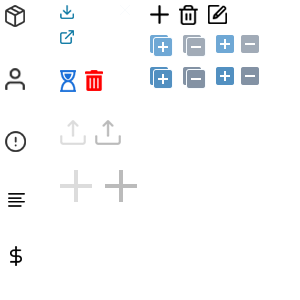
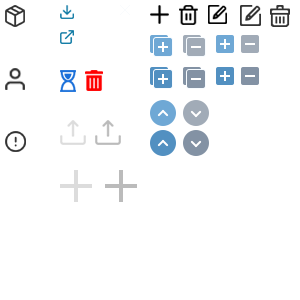
css/fonts/images 업데이트

diff --git a/src/main/resources/static/css/content.css b/src/main/resources/static/css/content.css
@@ -344,7 +344,7 @@ type2~4:#497fb8/#7b6ccc/#3ea29a
 .stateDay{display: inline-block; font-size: 15px; color:#fff; line-height: 30px; font-weight: 700; padding:0 15px; border-radius: 4px; background:#44a3bd; font-family: 'Montserrat';}/*180405 스타일 갱신 background:#2957cc*/
 
 /* search */
-.searchWrap{padding:20px; margin-bottom: 50px; text-align: center; border-radius: 2px; background-color: #fff; border-top:1px solid #11a7af;}
+.searchWrap{padding:20px; margin-bottom: 20px; text-align: center; border-radius: 2px; background-color: #fff; border-top:1px solid #11a7af;}
 .searchBox .form-group{display: inline-block; margin: 0; vertical-align:middle;}
 .searchBox .form-group-area {padding:7px 0;}
 .searchBox .fm_label{display: inline-block; vertical-align:middle; padding-right:10px;}
@@ -384,7 +384,7 @@ select, select.form-control,
 .cBox h4.c-tit .point1{font-weight:700;}/*180409 스타일 갱신*/
 .cBox .cBox-hd .pull-right{padding:25px 0;}
 .cBox .cBox-hd .dropdown{display: inline-block;}
-.cBox .dropdown-menu{min-width:65px; -webkit-box-shadow: none; box-shadow: none;}
+.cBox .dropdown-menu{min-width:50px; -webkit-box-shadow: none; box-shadow: none;}
 .cBox .dropdown-menu>li>a{padding:3px 10px;}
 .cBox .cBox-hd .btn-toggle {padding:0;}
 .cBox .cBox-hd .btn-toggle .ico{width:38px; height:37px; background-position: 0 -181px;}
@@ -1296,25 +1296,134 @@ input[name='renameSev']{position:relative;width:100%;}
 
 /*사용현황*/
 .statusBox {margin-bottom:40px;}
-.statusBox ul {display:table; width:100%;}
-.statusBox ul li {display:table-cell; width:30%; box-sizing:border-box; padding-right:30px;}
-.statusBox ul li:last-child {padding-right:0;}
+.statusBox > ul {display:table; width:100%;}
+.statusBox > ul > li {display:table-cell; width:30%; box-sizing:border-box; vertical-align:top; padding-right:20px;}
+.statusBox > ul > li:last-child {padding-right:0;}
 .statusBox .inWrap {position:relative; border-radius:5px; padding:20px; -webkit-box-shadow: 0 4px 10px 0 rgba(0,0,0,0.1); box-shadow: 0 4px 10px 0 rgba(0,0,0,0.1); -webkit-transform: translate(0, 0px); transform: translate(0, 0px);-webkit-transition: -webkit-box-shadow .3s,-webkit-transform .3s; transition: box-shadow .3s,transform .3s; cursor:pointer;}
 .statusBox .inWrap:hover{-webkit-box-shadow: 0 6px 15px 0 rgba(0,0,0,0.6); box-shadow: 0 6px 15px 0 rgba(0,0,0,0.6); -webkit-transform: translate(0, -4px); transform: translate(0, -4px);/* border:1px solid #333; */}
-.statusBox .inWrap .tit {position:absolute; top:20px; left:20px; display:block; font-size:18px; font-weight:700; color:#fff;}
+.statusBox .inWrap .tit {position:absolute; top:20px; left:20px; display:block; font-size:20px; font-weight:700; color:#fff;}
 .statusBox .inWrap .tit .tit_sm {font-size:15px;}
 .statusBox .inWrap.bg01 {background: url("../images/bg_ico_app01.png") no-repeat #fff 50px 60px; border:1px solid #d3dce6;}
 .statusBox .inWrap.bg01 .tit {color:#333;}
 .statusBox .inWrap.bg02 {background: url("../images/bg_ico_app02.png") no-repeat #004a8b 50px 60px;}
 .statusBox .inWrap.bg03 {background: url("../images/bg_ico_app03.png") no-repeat #028b93 50px 60px;}
+.statusBox .inWrap.bg05 {background: url("../images/bg_ico_app03.png") no-repeat #004a8b right 50px bottom 30px;}
 
-.statusBox .inWrap .in_txtBox {font-family: 'Montserrat'; text-align:right; padding-top:20px;}
+.statusBox.type2 .inWrap {height:242px; padding:20px; }
+.statusBox.type2 li:last-child .inWrap {height:242px; padding:20px;}
+.statusBox.type2 .inWrap.bg01 {background-position:50px 130px;}
+.statusBox.type2 .inWrap.bg02 {background-position:50px 130px;}
+
+.statusBox.type2 .inWrap.bg04 {background: url("../images/bg_ico_app04.png") no-repeat #028b93 center 20px;}
+.statusBox.type2 .inWrap.bg04 .tit {position:relative; top:0; left:0; display:block; text-align:center; padding:45px 0 10px 0;}
+.statusBox.type2 .inWrap.bg04 .today_txt {position:absolute; top:26px; right:30px; display:inline-block; font-size:13px; font-weight:500; color:#47c7ce;}
+.statusBox.type2 .inWrap.bg04 > ul {padding:10px 20px 0;}
+.statusBox.type2 .inWrap.bg04 > ul > li {display:table; width:100%; padding:10px 0;}
+.statusBox.type2 .inWrap.bg04 > ul > li:first-child {padding-top:0;}
+.statusBox.type2 .inWrap.bg04 > ul > li:last-child {padding-bottom:0;}
+.statusBox.type2 .inWrap.bg04 > ul > li > div {display:table-cell; box-sizing:border-box;}
+.statusBox.type2 .inWrap.bg04 > ul > li > div.ta_l {text-align:left;}
+.statusBox.type2 .inWrap.bg04 > ul > li > div.ta_r {text-align:right;}
+.statusBox.type2 .inWrap.bg04 > ul > li > div span {display:inline-block; vertical-align:middle;}
+.statusBox.type2 .inWrap.bg04 > ul > li > div span.num_txt {font-family: 'Montserrat'; font-size:30px; font-weight:500; color:#00fff0;}
+.statusBox.type2 .inWrap.bg04 > ul > li > div span.txt {/* width:270px; */ text-overflow:ellipsis; overflow:hidden; white-space:nowrap; font-size:16px; font-weight:500; color:#fff; padding-left:15px;}
+.statusBox.type2 .inWrap.bg04 > ul > li > div em.s_txt {font-size:14px; font-weight:400; color:#89cbcf; padding-left:5px;}
+.statusBox.type2 .inWrap.bg04 > ul > li > div span.ico_user {display:inline-block; width:18px; height:18px; font-size:0; background: url("../images/bg_ico_app05.png") no-repeat left top;}
+.statusBox.type2 .inWrap.bg04 > ul > li > div span.ico_apps {display:inline-block; width:23px; height:25px; font-size:0; background: url("../images/bg_ico_app06.png") no-repeat left top;}
+.statusBox.type2 .inWrap.bg04 > ul > li > div span.count {display:inline-block; font-family: 'Montserrat'; font-size:25px; font-weight:500; color:#fff; text-align:left; padding-left:10px;}
+
+.statusBox .inWrap .in_txtBox {font-family: 'Montserrat'; text-align:right; padding-top:70px;}
 .statusBox .inWrap .in_txtBox .count {display:inline-block; font-size:50px; font-weight:500; color:#fff; line-height:60px;}
-.statusBox .inWrap .in_txtBox .txt {font-size:13px; font-weight:500; color:#fff; line-height:1.3;}
+.statusBox .inWrap .in_txtBox .txt {font-size:13px; font-weight:500; color:#fff; line-height:1.3; letter-spacing:-1px;}
 .statusBox .inWrap.bg01 .in_txtBox .count {color:#333;}
 .statusBox .inWrap.bg01 .in_txtBox .txt {color:#0d87b8;}
 .statusBox .inWrap.bg02 .in_txtBox .txt {color:#3283ca;}
 .statusBox .inWrap.bg03 .in_txtBox .txt {color:#47c7ce;}
+
+.statusBox .inWrap.bg05 {height:242px; padding:20px;}
+.statusBox .inWrap.bg05 .in_txtBox .tit {position:relative; top:0; left:0; display:block; text-align:center; line-height:20px; padding:45px 0 5px 0;}
+.statusBox .inWrap.bg05 .in_txtBox .txt {color:#3283ca; text-align:center;}
+.statusBox .inWrap.bg05 .in_txtBox .count {display:block; text-align:center; line-height:50px; padding:10px 0 0 0;}
+
+
+/*======================================================= 관리자 =======================================================*/
+.appCategoryBox {display:table; width:100%;}
+.appCategoryBox > div {display:table-cell; box-sizing:border-box; width:50%; vertical-align:top;}
+.appCategoryBox > div.cate_left {padding-right:30px;}
+.appCategoryBox > div.cate_right .cont_btnBox {text-align:right; padding-top:30px;}
+.appCategoryBox h4.c-tit-in {display:block; width:100%; font-size:18px; font-weight:500; color:#333; line-height:1.3; padding:0; margin-bottom:25px;}
+.appCategoryBox h4.c-tit-in::before {display:inline-block; content:''; width:4px; height:17px; background:#215ba3; margin-right:10px; }
+.appCategoryBox .tree-head {line-height:60px; padding:0 20px;}
+.appCategoryBox .tree-head .bx_left {float:left;}
+.appCategoryBox .tree-head .bx_right {float:right;}
+
+.treeWrap {border:1px solid #c2d1d9; clear:both; min-height:450px;}
+.tree-head {height:60px; background:#f6faff; border-bottom:1px solid #c2d1d9;}
+.tree-head .btn {font-size:16px; vertical-align:middle; padding-left:20px;}
+.tree-head .btn:first-child {padding-left:0;}
+.tree-head .ico_dtl {margin-right:5px;}
+.tree-head .only-ico.ico-expend .ico_dtl {width:23px; height:22px; background-position: -150px -35px;}
+.tree-head .only-ico.ico-expend:hover .ico_dtl {width:23px; height:22px; background-position: -150px -67px;}
+.tree-head .only-ico.ico-collapse .ico_dtl {width:23px; height:22px; background-position: -183px -35px;}
+.tree-head .only-ico.ico-collapse:hover .ico_dtl {width:23px; height:22px; background-position: -183px -67px;}
+.tree-head .only-ico.ico-regi .ico_dtl {width:19px; height:19px; background-position: -150px -5px;}
+.tree-head .only-ico.ico-del .ico_dtl {width:19px; height:20px; background-position: -179px -5px;}
+.tree-head .only-ico.ico-modi .ico_dtl {width:19px; height:19px; background-position: -208px -5px;}
+
+
+/*카테고리 트리*/
+.appCategoryBox .cate_left .treeWrap .tree-body .cate_treemenu > ul {padding:0 0 30px 38px;}
+.appCategoryBox .cate_left .treeWrap .tree-body .cate_treemenu > ul > li {padding:0;}
+.appCategoryBox .cate_left .treeWrap .tree-body .cate_treemenu .cate-title {padding:20px 30px;}
+.appCategoryBox .cate_left .treeWrap .tree-body .cate_treemenu .cate-title .ico_category {display:inline-block; width:20px; height:20px; background: url("../images/ico_category.png") no-repeat; vertical-align:middle; margin-right:10px;}
+.appCategoryBox .cate_left .treeWrap .tree-body .cate_treemenu .cate-title a {position:relative; display:inline-block; font-size:16px; line-height:16px; vertical-align:middle; padding:0;}
+.appCategoryBox .cate_left .treeWrap .tree-body .cate_treemenu > ul > li > ul {padding:15px 10px 15px 42px;}
+
+.appCategoryBox .cate_left .treeWrap .tree-body .cate_treemenu > ul > li {position:relative; background: url("../images/ico_category_dot1.png") repeat-y; padding:8px 0;}
+.appCategoryBox .cate_left .treeWrap .tree-body .cate_treemenu > ul > li > a {display:block; font-size:15px; line-height:30px; background: url("../images/ico_category_dot2.png") no-repeat; background-position:0 14px; padding:0 0 0 87px;}
+.appCategoryBox .cate_left .treeWrap .tree-body .cate_treemenu > ul > li.only-li > a {padding:0 0 0 62px;}
+.appCategoryBox .cate_left .treeWrap .tree-body .cate_treemenu > ul > li:last-child {padding-bottom:0;}
+.appCategoryBox .cate_left .treeWrap .tree-body .cate_treemenu > ul > li:last-child > a {background: url("../images/ico_category_dot3.png") no-repeat; background-position:0 -8px; line-height:36px;}
+
+.appCategoryBox .cate_left .treeWrap .tree-body .cate_treemenu > ul > li .plus {position:absolute; top:14px; left:60px; display:inline-block; width:18px; height:18px; background: url("../images/ico_detail.png") no-repeat;}
+.appCategoryBox .cate_left .treeWrap .tree-body .cate_treemenu > ul > li .plus.expandable-plus {background-position:-216px -35px;}
+.appCategoryBox .cate_left .treeWrap .tree-body .cate_treemenu > ul > li .plus.expandable-plus:hover {background-position:-216px -67px;}
+.appCategoryBox .cate_left .treeWrap .tree-body .cate_treemenu > ul > li .plus.collapsable-plus {background-position:-241px -35px;}
+.appCategoryBox .cate_left .treeWrap .tree-body .cate_treemenu > ul > li .plus.collapsable-plus:hover {background-position:-241px -67px;}
+
+.appCategoryBox .cate_left .treeWrap .tree-body .cate_treemenu > ul > li .checkbox.checkbox-only {position:absolute; top:13px; left:35px;}
+
+.appCategoryBox .cate_left .treeWrap .tree-body .cate_treemenu > ul > li > ul > li {position:relative; background: url("../images/ico_category_dot1.png") repeat-y; padding:8px 0;}
+.appCategoryBox .cate_left .treeWrap .tree-body .cate_treemenu > ul > li > ul > li > a {display:block; font-size:15px; line-height:30px; background: url("../images/ico_category_dot2.png") no-repeat; background-position:0 14px; padding:0 0 0 87px;}
+.appCategoryBox .cate_left .treeWrap .tree-body .cate_treemenu > ul > li > ul > li.only-li > a {padding:0 0 0 62px;}
+.appCategoryBox .cate_left .treeWrap .tree-body .cate_treemenu > ul > li > ul > li:last-child {padding-bottom:0;}
+.appCategoryBox .cate_left .treeWrap .tree-body .cate_treemenu > ul > li > ul > li:last-child > a {background: url("../images/ico_category_dot3.png") no-repeat; background-position:0 -8px; line-height:36px;}
+
+#ProtectDiv {position:absolute !important; top:-1000000px !important; display:none !important; width:0 !important; background-color:unset !important; border:0px !important; padding:0 !important; color:unset !important; }
+
+
+/*카테고리 관리화면*/
+.cBox.type2 .cBox-cnt {background:#e7ecf2; border-top:1px solid #c2d1d9;}
+.cBox.type2 .category_Box > ul > li {padding-bottom:20px;}
+.cBox.type2 .category_Box > ul > li > div {border:1px solid #c7ccd0; padding:20px 30px; background: #fff; -webkit-box-shadow: 0 2px 10px 0 rgba(0,0,0,0.1); box-shadow: 0 2px 10px 0 rgba(0,0,0,0.1); -webkit-transform: translate(0, 0px); transform: translate(0, 0px);-webkit-transition: -webkit-box-shadow .3s,-webkit-transform .3s; transition: box-shadow .3s,transform .3s; cursor: pointer;}
+.cBox.type2 .category_Box > ul > li > div:hover{-webkit-box-shadow: 0 6px 15px 0 rgba(0,0,0,0.6); box-shadow: 0 6px 15px 0 rgba(0,0,0,0.6); -webkit-transform: translate(0, -4px); transform: translate(0, -4px);border:1px solid #333;}
+.cBox.type2 .category_Box > ul > li > div > span {display:inline-block; font-size:17px; color:#555; line-height:1.5; background: url("../images/ico_category_menu.png") no-repeat left center; padding-left:25px;}
+
+.cBox.type2 .category_Box .cateWrap .btn_seq {display:inline-block; margin-right:30px;}
+.cBox.type2 .category_Box .cateWrap .btn_seq .btn:first-child {margin-right:8px;}
+.cBox.type2 .category_Box .cateWrap .btn_etc {display:inline-block;}
+.cBox.type2 .category_Box .cateWrap .btn_etc .btn:first-child {margin-right:15px;}
+.cBox.type2 .category_Box .cateWrap .only-ico.ico-top .ico_dtl {width:26px; height:26px; background-position:-150px -100px;}
+.cBox.type2 .category_Box .cateWrap .only-ico.ico-top:hover .ico_dtl {width:26px; height:26px; background-position:-150px -130px;}
+.cBox.type2 .category_Box .cateWrap .only-ico.ico-bottom .ico_dtl {width:26px; height:26px; background-position:-183px -100px;}
+.cBox.type2 .category_Box .cateWrap .only-ico.ico-bottom:hover .ico_dtl {width:26px; height:26px; background-position:-183px -130px;}
+.cBox.type2 .category_Box .cateWrap .only-ico.ico-modi .ico_dtl {width:21px; height:21px; background-position:-240px -5px;}
+.cBox.type2 .category_Box .cateWrap .only-ico.ico-del .ico_dtl {width:20px; height:22px; background-position:-270px -5px;}
+
+.cBox.type2 .category_Box .category_regi p {text-align:center; font-size:17px; color:#555; padding-top:40px;}
+.cBox.type2 .category_Box .category_regi a {display:block; border:1px solid #ccc; padding:20px 30px;}
+.cBox.type2 .category_Box .category_regi a:hover {border:1px solid #333; background:#fff;}
+.cBox.type2 .category_Box .category_regi a span {display:inline-block; font-size:17px; color:#555; line-height:1.5; background: url("../images/ico_btn_plus.png") no-repeat left center; padding-left:25px;}
 
 
 /*검색결과없음*/
@@ -1333,15 +1442,6 @@ input[name='renameSev']{position:relative;width:100%;}
 .tbw_file_list li > .btn-del-sm > span {display:inline-block; width:9px; height:9px; font-size:0; vertical-align:middle; background: url("../images/ico_com.png") no-repeat;}
 .tbw_file_list li > .btn-del-sm .ico_x {background-position: -478px -51px;}
 .tbw_file_list li > .btn-del-sm:hover .ico_x {background-position: -536px -420px;}
-
-/*좌측하단 배너(한전기술이전배너)*/
-.bannerBox {position:fixed; bottom:100px; -webkit-box-shadow: 0 4px 10px 0 rgba(0,0,0,0.3); box-shadow: 0 4px 10px 0 rgba(0,0,0,0.3);}
-.bannerBox > a {position:relative; display:block; width:240px; height:120px; background:url("../images/banner_bg.png") no-repeat #2b3a48; color:#fff;}
-.bannerBox > a .txtBox {position:absolute; top:40px; left:17px;}
-.bannerBox > a > span {font-size:17px; font-weight:700;}
-.bannerBox .t_color {display:inline-block; color:#32ccff; line-height:17px;}
-.bannerBox .t_size {display:block; font-size:22px; line-height:22px; letter-spacing:-1px; padding-top:5px;}
-
 
 /*==== 사용현황 Chart ====*/
 /* .cht_area_wrap {width:100%; overflow:hidden;} */
@@ -1417,7 +1517,7 @@ input[name='renameSev']{position:relative;width:100%;}
 
 /*사용 추이*/
 .cht_line_wrap {padding-left:30px;}
-.cht_tit {position:relative; display:block; font-size:20px; font-weight:700; color:#333; text-align:center; padding:0 0 30px 0;}
+.cht_tit {position:relative; display:block; font-size:20px; font-weight:700; text-align:center; padding:0 0 30px 0;}
 .cht_tit > .s_txt{position:absolute; right:0;}
 .s_txt {font-size:13px; color:#888; font-weight:400;}
 
@@ -1470,6 +1570,8 @@ input[name='renameSev']{position:relative;width:100%;}
 .tui-chart-series-custom-event-area > div {background:none !important;}
 
 
+
+
 /*======================================================= 반응형 사이즈 =======================================================*/
 
 #wrap {min-width:unset;}
@@ -1488,16 +1590,32 @@ input[name='renameSev']{position:relative;width:100%;}
 
 @media screen and (max-width: 1800px) {
 	.ul-panel > li {width:30%;}
+
+	/*카테고리 관리*/
+	.appCategoryBox .cate_right .tbw.type1 col:first-child {width:30% !important;}
 }
 
 @media screen and (max-width: 1500px) {
 	.ul-panel > li {width:47%;}
-	
+
 	/*사용현황*/
 	.statusBox .inWrap.bg01 {background:#fff;}
 	.statusBox .inWrap.bg02 {background:#004a8b;}
 	.statusBox .inWrap.bg03 {background:#028b93;}
 	.statusBox .inWrap .in_txtBox {height:120px;}
+
+	.statusBox.type2 .inWrap.bg04 {background-image:none;}
+	.statusBox.type2 .inWrap.bg04 .tit {position:absolute; top:20px; left:20px; padding:0;}
+	.statusBox.type2 .inWrap.bg04 .today_txt {top:20px;}
+	.statusBox.type2 .inWrap.bg04 > ul {padding:70px 20px 0;}
+
+	/*카테고리 관리*/
+	.treeWrap {min-height:340px;}
+	.appCategoryBox {display:block;}
+	.appCategoryBox > div {display:block; width:100%; }
+	.appCategoryBox > div.cate_left {padding-right:0;}
+	.appCategoryBox > div.cate_right {padding-top:30px;}
+	.appCategoryBox .cate_right .tbw.type1 col:first-child {width:20% !important;}
 }
 
 @media screen and (max-width: 1280px) {
@@ -1510,6 +1628,24 @@ input[name='renameSev']{position:relative;width:100%;}
 	.searchBox .form-group-area .fm_box {display:table-cell; box-sizing:border-box; width:80%;}
 	.searchBox .form-group-area .fm_box select {width:100%;}
 	.searchBox .form-group-area .fm_box input {width:100% !important;}
+
+	/*사용현황*/
+	.statusBox.type2 {position:relative; height:242px;}
+	.statusBox.type2:after {display:block; content:''; clear:both;}
+	.statusBox.type2 > ul > li {position:absolute; width:40%;}
+	.statusBox.type2 > ul > li:nth-child(1) .inWrap {height:111px;}
+	.statusBox.type2 > ul > li:nth-child(2) .inWrap {height:111px;}
+	.statusBox.type2 > ul > li:nth-child(2) {top:131px;}
+	.statusBox.type2 > ul > li:last-child {width:60%; right:0;}
+	.statusBox.type2 > ul > li .inWrap {height:111px;}
+	.statusBox.type2 .inWrap .in_txtBox {height:auto; padding-top:20px;}
+	.statusBox.type2 .inWrap .in_txtBox .count {font-size:38px; line-height:38px;}
+
+	/*사용현황 박스 두개일 때*/
+	.statusBox.type2.box-two {height:344px;}
+	.statusBox.type2.box-two > ul > li {width:100%; padding-right:0}
+	.statusBox.type2.box-two > ul > li:last-child .inWrap {height:auto;}
+
 
 	/*상세화면 개요*/
 	.m_line {display:block; padding:10px 0 0 0;}
@@ -1536,7 +1672,7 @@ input[name='renameSev']{position:relative;width:100%;}
 }
 
 @media screen and (max-width: 1200px) {
-	.m_btn_wrap {display:block;}
+   .m_btn_wrap {display:block;}
 }
 
 
@@ -1565,6 +1701,9 @@ input[name='renameSev']{position:relative;width:100%;}
 
 
 @media screen and (max-width: 992px) {
+	/*사용현황*/
+	.statusBox.type2 .inWrap .in_txtBox {padding-top:30px;}
+	.statusBox.type2 .inWrap .in_txtBox .txt {display:none;}
 }
 
 @media screen and (min-width: 992px) {
@@ -1597,16 +1736,14 @@ input[name='renameSev']{position:relative;width:100%;}
 	.search_resultBox .txt_sm {font-size:16px;}
 
 	/*사용현황*/
-	.statusBox {position:relative; height:380px;}
-	.statusBox:after {display:block; content:''; clear:both;}
-	.statusBox > ul > li {position:absolute; width:100%; padding-right:0;}
-	.statusBox > ul > li:nth-child(1) {top:0; left:0;}
-	.statusBox > ul > li:nth-child(2) {top:134px; right:0;}
-	.statusBox > ul > li:last-child {top:268px; left:0;}
-	.statusBox li:last-child .inWrap {height:auto;}
-	.statusBox .inWrap .in_txtBox {height:auto;}
-	.statusBox .inWrap.bg04 > ul {padding:50px 20px 10px;}
-	.statusBox .inWrap .in_txtBox .count {font-size:38px; line-height:38px;}
+	.statusBox.type2 {height:331px;}
+	.statusBox.type2 > ul > li {position:absolute; width:50%;}
+	.statusBox.type2 > ul > li:nth-child(1) {top:0; left:0;}
+	.statusBox.type2 > ul > li:nth-child(2) {top:0; right:0; padding-right:0;}
+	.statusBox.type2 > ul > li:last-child {width:100%; top:131px; left:0;}
+	.statusBox.type2 li:last-child .inWrap {height:auto;}
+	.statusBox.type2 .inWrap.bg04 > ul {padding:50px 20px 10px;}
+	.statusBox.type2 .inWrap .in_txtBox .count {font-size:38px; line-height:38px;}
 }
 
 
@@ -1615,6 +1752,10 @@ input[name='renameSev']{position:relative;width:100%;}
 	.statusBox.type2 .inWrap .in_txtBox .txt {display:none;}
 	.statusBox .inWrap .tit {font-size:15px;}
 	.statusBox .inWrap .in_txtBox .count {font-size:40px;}
+
+	/*카테고리 관리*/
+	.bx_right .bx_btn_area {display:none;}
+	.bx_right .dropdown {display:block !important;}
 }
 
 @media screen and (max-width: 500px) {

diff --git a/src/main/resources/static/css/common.css b/src/main/resources/static/css/common.css
@@ -1,4 +1,4 @@
-@charset "utf-8";
+@charset "utf-8";
 
 /* Common */
 .scroll-no{overflow: hidden !important;}
@@ -21,6 +21,7 @@
 
 /* ico */
 .ico{display:inline-block; position: relative; font-size: 0; vertical-align:middle; background:url("../images/ico_com.png") no-repeat; }
+.ico_dtl{display:inline-block; position: relative; font-size: 0; vertical-align:middle; background:url("../images/ico_detail.png") no-repeat; }
 .ico-info1{width:17px; height:17px; background-position: -110px -304px;}
 .ico-info2{width:17px; height:17px; vertical-align: middle; margin-left: 5px; background-position: -137px -304px;}
 
@@ -125,6 +126,7 @@ input[disabled]{color: #555 !important; background-color: #eee !important;}
 select, select.form-control{color:#777; min-width: 75px; height: 44px; padding:0px 50px 0px 10px; border: 1px solid #ccc; border-radius: 2px; background:#fff url("../images/ico_sel.png") no-repeat; background-position: center right; -webkit-appearance: listbox; -webkit-appearance: none; -moz-appearance: none; -ms-appearance: none; -o-appearance: none; appearance: none;}
 select::-ms-expand{display: none;}
 .form-control[disabled], .form-control[readonly], fieldset[disabled] .form-control{background-color: #f0f0f0;}
+.form-control-inline[disabled], .form-control-inline[readonly], fieldset[disabled] .form-control-inline{background-color: #f0f0f0;}
 .form-control{ -webkit-appearance: none; -webkit-box-shadow: none; -moz-box-shadow: none; box-shadow: none;}
 .input-group-btn select{height: 30px;}
 textarea.form-control{border:1px solid #d6d6d6;}
@@ -134,6 +136,7 @@ textarea.form-control{border:1px solid #d6d6d6;}
 select.has-error, input.has-error{border-color:#ff0740;}
 .has-error{color: #d40031; line-height: 18px; padding-top:10px; }
 .has-error::before{display: inline-block; content: ''; width:18px; height: 18px; margin-right: 5px; vertical-align: text-bottom; background: url("../images/ico_com.png") no-repeat; background-position: -508px -46px;}
+.tbw tr td div.form-group select [disabled]{background-color: #eee !important;}
 
 /* form */
 .form-inline .label-txt{color:#535f6c; margin-bottom: 0;}
@@ -492,6 +495,6 @@ i.i_star:before {content:"*"; display:inline-block; font-size:14px; color:#ff000
 /* date */
 .dateWrap{font-size:0;}
 .dateWrap .date-inpt{display: inline-block; position: relative; width:45%;}
-.dateWrap .date-inpt input[type="text"]{font-size:13px; width:100%; height: 38px; padding:0 35px 0 10px;}
+.dateWrap .date-inpt input[type="text"]{font-size:13px; width:100%; height: 42px; padding:0 35px 0 10px;}
 .dateWrap .date-inpt .ui-datepicker-trigger{position: absolute; top:12px; right:10px; z-index: 0; width:18px; height: 18px; border:0; border-radius: 0; cursor: pointer; background: url("../images/ico_calendar2.gif") no-repeat;}
 .dateWrap .wave{display: inline-block; font-size:14px; width:10%; text-align: center; vertical-align: middle;}
